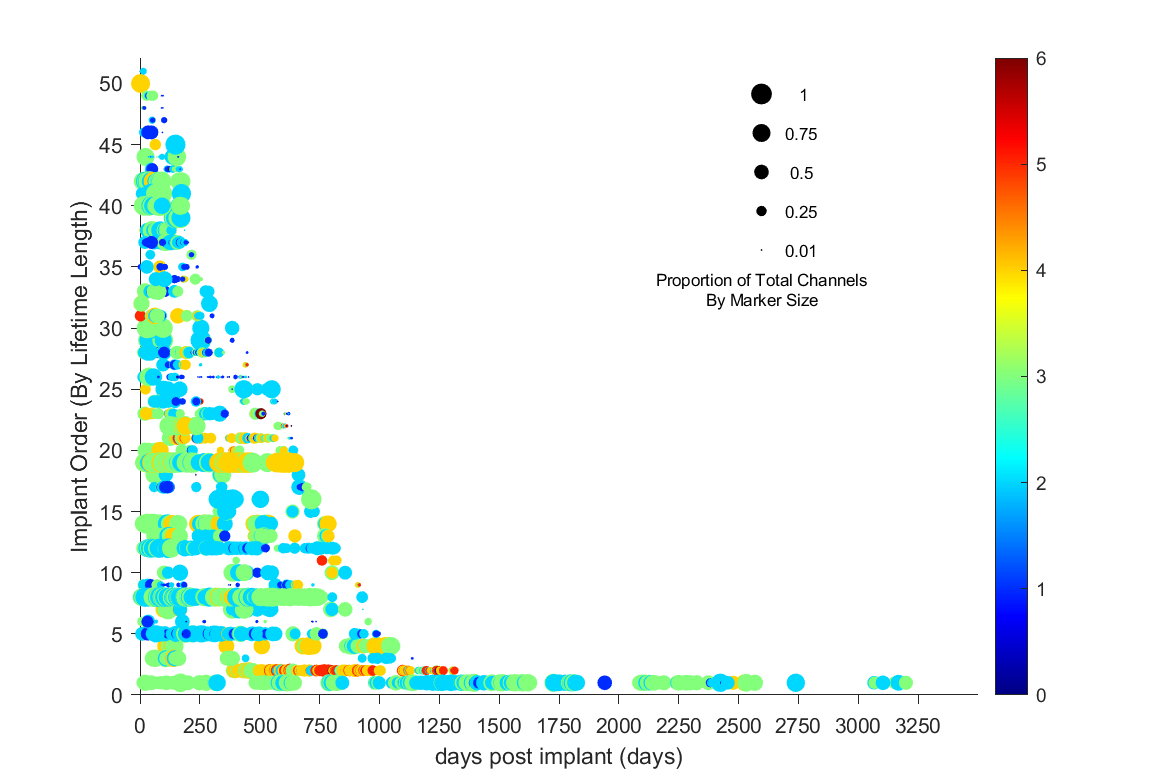
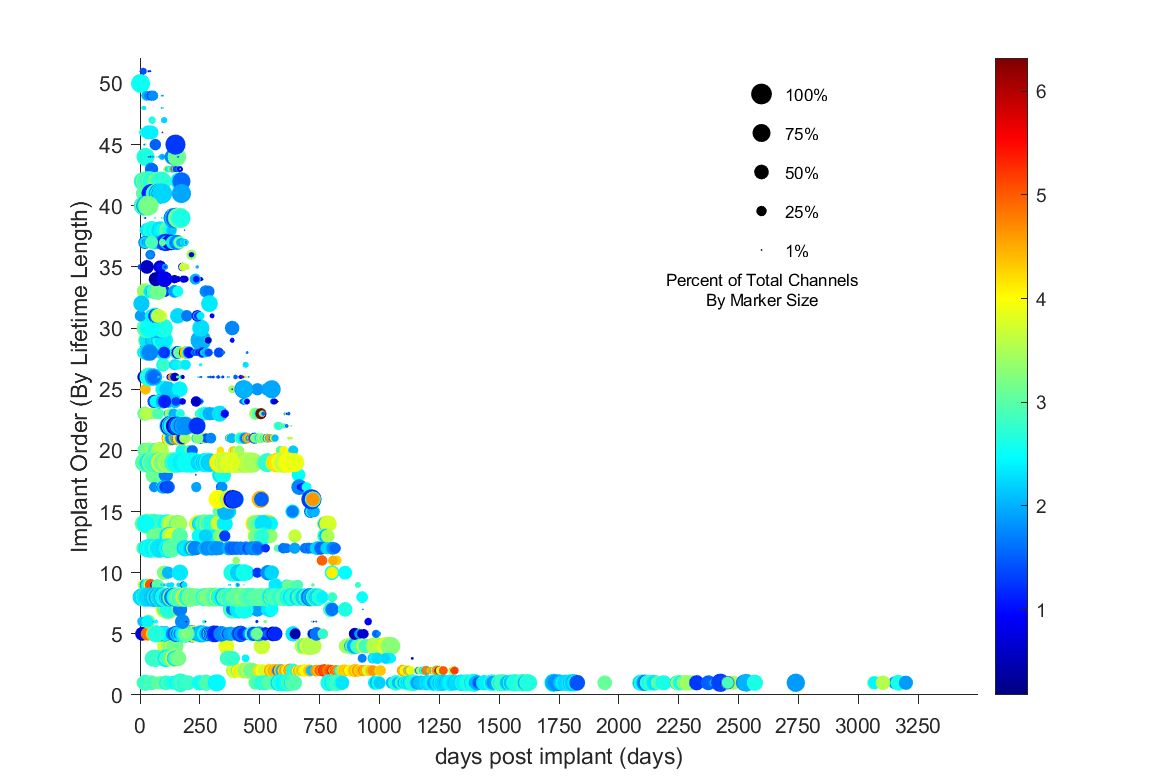
misc tweaks

diff --git a/code/paper_figures_code/figure_three.m b/code/paper_figures_code/figure_three.m
@@ -51,12 +51,20 @@ for iArray = 1:numel(array_names)
     end
 end
 
+all_SNR = [array_data.SNR_all_channels];
+all_SNR = all_SNR(~isnan(all_SNR));
+all_percent_channels = (([array_data.num_good_channels_corrected] ./ [array_data.total_num_of_channels])+.01);
+all_percent_channels = all_percent_channels(~isnan(all_SNR));
+all_relative_days = [array_data.relative_days];
+all_relative_days = all_relative_days(~isnan(all_SNR));
+implant_order = implant_order(~isnan(all_SNR));
+
 figure('name','Long-term, chronic array recordings','visible','off','color','w'); hold on
-scatter([array_data.relative_days],implant_order,...
-    (([array_data.num_good_channels_corrected] ./ [array_data.total_num_of_channels])+.01)*100,...
-    round([array_data.SNR_all_channels],0),'filled')
+scatter(all_relative_days,implant_order,all_percent_channels*100,all_SNR,'filled')
 box off
 ax1 = gca;
+colormap(jet);
+colorbar;
 hold off
 
 % plotting the main figure
@@ -65,8 +73,6 @@ xlabel('days post implant (days)');
 ylabel('Implant Order (By Lifetime Length)');
 xticks(0:250:3250)
 ylim([0 max(implant_order)+1])
-colormap(jet);
-colorbar;
 set(gcf,'pos',[0,0,750,500])
 set(gca,'TickDir','out')
 
@@ -75,8 +81,8 @@ ax2 = axes('Position',[.6 .68 .1 .2]);
 
 % I know it's hacky it's very hacky but I'm proud of it okay
 scatter([1,1,1,1,1],[1,2,3,4,5],[.01,.25,.5,.75,1]*100,'k','filled')
-text([1,1,1,1,1]+.1,[1,2,3,4,5],cellstr(num2str([.01,.25,.5,.75,1]')),'HorizontalAlignment', 'Left','FontSize',8)
-text(1, 0.25,'Proportion of Total Channels','HorizontalAlignment','Center','FontSize',8)
+text([1,1,1,1,1]+.1,[1,2,3,4,5],cellstr({'1%' '25%' '50%' '75%' '100%'}),'HorizontalAlignment', 'Left','FontSize',8)
+text(1, 0.25,'Percent of Total Channels','HorizontalAlignment','Center','FontSize',8)
 text(1, -.25,'By Marker Size','HorizontalAlignment','Center','FontSize',8)
 xlim([.75 1.25])
 set(gca, 'visible', 'off')

diff --git a/code/paper_figures_code/figure_one.m b/code/paper_figures_code/figure_one.m
@@ -49,8 +49,10 @@ for iArray = 1:length(array_names)
     clear good_channels_temp
     clear relative_days_temp
 end
-ylabel('proportion good channels');
+ylabel('Percent Good Channels');
 ylim([0 1]);
+yticks(0:.25:1)
+yticklabels({'0%' '25%' '50%' '75%' '100%'})
 xlim([0 max([array_data.relative_days])]);
 box off
 
